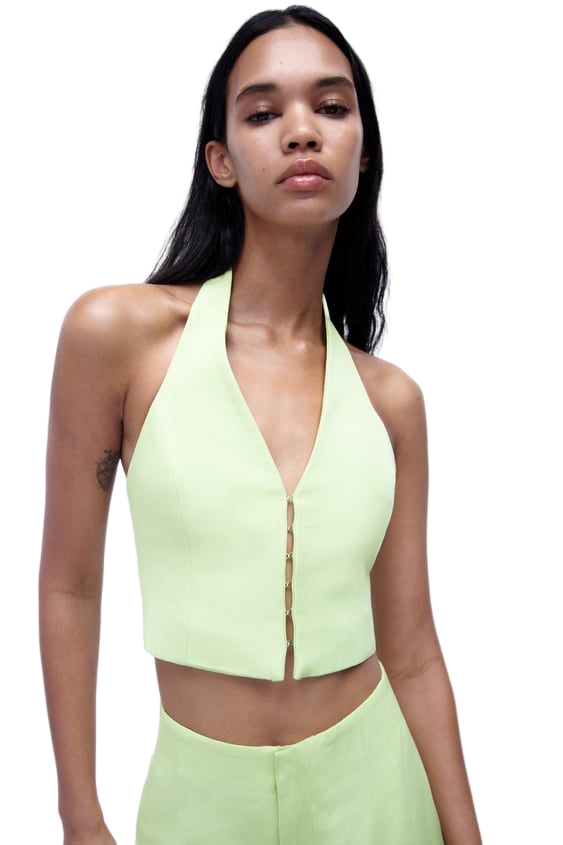
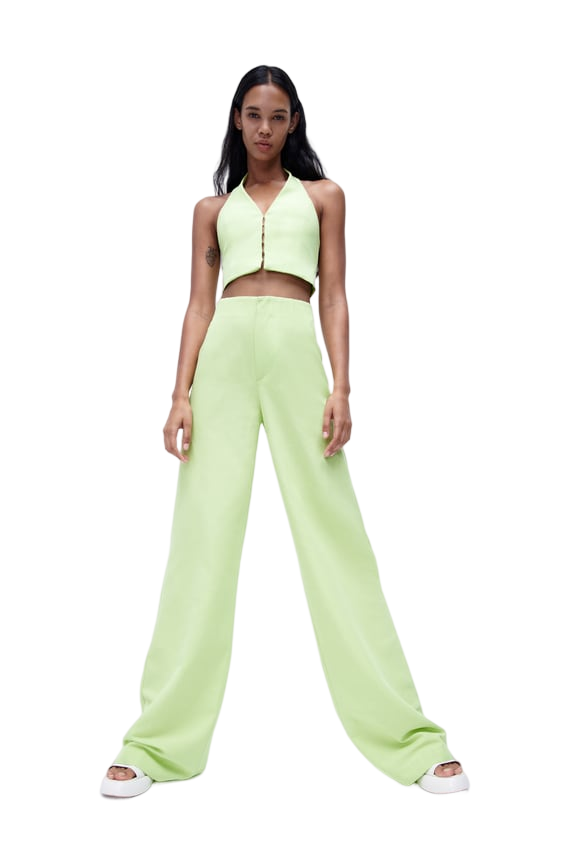
finished styling dashboard

diff --git a/pages/index.jsx b/pages/index.jsx
@@ -1,8 +1,18 @@
 import Head from 'next/head'
-import Image from 'next/image'
 import { IoIosArrowForward } from 'react-icons/io';
 import ImageWrapper from '../components/ImageWrapper'
 import ModelPic1 from '../public/assets/images/model1.png'
+import ModelPic2 from '../public/assets/images/model2.png'
+import ModelPic3 from '../public/assets/images/model3.png'
+import ModelPic4 from '../public/assets/images/model4.png'
+import bladeleaf from '../public/assets/svgs/bladeleaf.svg'
+import curvyarrowleft from '../public/assets/svgs/curvyarrowleft.svg'
+import curvyarrowup from '../public/assets/svgs/curvyarrowup.svg'
+import filledcircle from '../public/assets/svgs/filledcircle.svg'
+import hollowcircle from '../public/assets/svgs/hollowcircle.svg'
+import modelcirclemain from '../public/assets/svgs/modelcirclemain.svg'
+import modelcirclesecondary from '../public/assets/svgs/modelcirclesecondary.svg'
+import ribbon from '../public/assets/svgs/ribbon.svg'
 import Navbar from '../components/Navbar';
 import styles from '../styles/Home.module.css'
 
@@ -11,51 +21,64 @@ export default function Home() {
     <>
       <Navbar />
       <div className="maxw-wrapper">
-          <div className="productpage maxcontentw-warpper">
-            <div className="productpage__left">
-              <div className="productpage__left__info">
-                <h1 className="productpage__left__info__title">
-                  TIED GREEN V-NECK SHIRT
+          <div className={styles.productpage}>
+            <div className={styles.productpage__left}>
+              <div className={styles.productpage__left__info}>
+                <h1 className={styles.productpage__left__info__title}>
+                  TIED GREEN <br/> V-NECK SHIRT
                 </h1>
-                <h2 className="productpage__left__info__price">
+                <h2 className={styles.productpage__left__info__price}>
                   $110
                 </h2>
-                <p className="productpage__left__info__desc">
+                <p className={styles.productpage__left__info__desc}>
                   V-neck shirt with lapel collar. Long sleeves with cuffs. Front tie at hem. Front button closure.
                 </p>
-                <button className="productpage__left__info__addbtn">ADD</button>
+                <button className={styles.productpage__left__info__addbtn}>ADD</button>
               </div>
-              <div className="productpage__left__size">
-                <h2 className="productpage__left__size__title">
+              <div className={styles.productpage__left__size}>
+                <h2 className={styles.productpage__left__size__title}>
                   Select Size
                 </h2>
-                <div className="productpage__left__size__select">
-                  <button className="productpage__left__size__select__btn">S</button>
-                  <button className="productpage__left__size__select__btn">M</button>
-                  <button className="productpage__left__size__select__btn">L</button>
-                  <p className="productpage__left__size__select__guide" >SIZE GUIDE</p>
+                <div className={styles.productpage__left__size__select}>
+                  <button className={styles.productpage__left__size__select__btn}>S</button>
+                  <button className={styles.productpage__left__size__select__btn}>M</button>
+                  <button className={styles.productpage__left__size__select__btn}>L</button>
+                  <button className={styles.productpage__left__size__select__guide} >SIZE GUIDE</button>
                 </div>
               </div>
-              <div className="productpage__left__carousel" >
-                <div className="productpage__left__carousel__imgcontainer" >
-                  <div className="productpage__left__carousel__imgcontainer__img" />
+              <div className={styles.productpage__left__carousel} >
+                <div className={styles.productpage__left__carousel__imgcontainer} >
+                  <div className={[styles.productpage__left__carousel__imgcontainer__img, styles.productpage__left__carousel__imgcontainer__img1].join(' ')} />
                 </div>
-                <div className="productpage__left__carousel__imgcontainer" >
-                  <div className="productpage__left__carousel__imgcontainer__img" />
+                <div className={styles.productpage__left__carousel__imgcontainer} >
+                  <div className={[styles.productpage__left__carousel__imgcontainer__img, styles.productpage__left__carousel__imgcontainer__img2].join(' ')} />
                 </div>
-                <div className="productpage__left__carousel__imgcontainer" >
-                  <div className="productpage__left__carousel__imgcontainer__img" />
+                <div className={styles.productpage__left__carousel__imgcontainer} >
+                  <div className={[styles.productpage__left__carousel__imgcontainer__img, styles.productpage__left__carousel__imgcontainer__img3].join(' ')} />
                 </div>
-                <div className="productpage__left__carousel__imgcontainer" >
-                  <div className="productpage__left__carousel__imgcontainer__img" />
+                <div className={styles.productpage__left__carousel__imgcontainer} >
+                  <div className={[styles.productpage__left__carousel__imgcontainer__img, styles.productpage__left__carousel__imgcontainer__img4].join(' ')} />
                 </div>
-                <button className="productpage__left__carousel__morebtn">
-                  <IoIosArrowForward className="productpage__left__carousel__morebtn__icon"/>
+                <button className={styles.productpage__left__carousel__morebtn}>
+                  <IoIosArrowForward className={styles.productpage__left__carousel__morebtn__icon}/>
                 </button>
               </div>
             </div>
-            <div className="productpage__right">
-              <ImageWrapper src={ModelPic1} />
+            <div className={styles.productpage__right}>
+              <div className={styles.productpage__right__imgcontainer}>
+                <ImageWrapper absolute={true} className={styles.productpage__right__imgcontainer__modelpic} src={ModelPic2} />
+                <div absolute={true} className={styles.productpage__right__imgcontainer__modelcirclemain} src={modelcirclemain}/>
+                <div absolute={true} className={styles.productpage__right__imgcontainer__modelcirclesecondary} src={modelcirclesecondary}/>
+                <div absolute={true} className={styles.productpage__right__imgcontainer__modelcirclesecondary2} src={modelcirclesecondary}/>
+                <div absolute={true} className={styles.productpage__right__imgcontainer__modelcirclesecondary3} src={modelcirclesecondary}/>
+                <div absolute={true} className={styles.productpage__right__imgcontainer__modelcirclesecondary4} src={modelcirclesecondary}/>
+                <ImageWrapper absolute={true} className={styles.productpage__right__imgcontainer__filledcircle} src={filledcircle}/>
+                <ImageWrapper absolute={true} className={styles.productpage__right__imgcontainer__hollowcircle} src={hollowcircle}/>
+                <ImageWrapper absolute={true} className={styles.productpage__right__imgcontainer__ribbon} src={ribbon}/>
+                <ImageWrapper absolute={true} className={styles.productpage__right__imgcontainer__curvyarrowup} src={curvyarrowup}/>
+                <ImageWrapper absolute={true} className={styles.productpage__right__imgcontainer__curvyarrowleft} src={curvyarrowleft}/>
+                <ImageWrapper absolute={true} className={styles.productpage__right__imgcontainer__bladeleaf} src={bladeleaf}/>
+              </div>
             </div>
           </div>
       </div>

diff --git a/styles/Home.module.css b/styles/Home.module.css
@@ -1,0 +1,184 @@
+.productpage{
+    @apply flex relative;
+    min-height: calc(100vh - 4.5rem)
+}
+
+.productpage .productpage__left{
+    @apply flex flex-col justify-end py-8 gap-12;
+    width: 57%;
+}
+
+.productpage .productpage__left .productpage__left__info{
+    @apply flex flex-col gap-5 relative mt-12;
+}
+
+.productpage .productpage__left .productpage__left__info .productpage__left__info__title{
+    @apply text-7xl font-bold;
+    line-height: 6rem;
+}
+
+.productpage .productpage__left .productpage__left__info .productpage__left__info__price{
+    @apply text-5xl;
+}
+
+.productpage .productpage__left .productpage__left__info .productpage__left__info__desc{
+    @apply max-w-lg tracking-wide text-xl text-gray-600;
+}
+
+.productpage .productpage__left .productpage__left__info .productpage__left__info__addbtn{
+    @apply max-w-2xl tracking-wide text-xl absolute bottom-32 right-16 w-20 h-20 bg-red-500 rounded-full text-white font-black text-xl tracking-wide;
+    font-family: monospace;
+}
+
+.productpage .productpage__left .productpage__left__size{
+    @apply flex flex-col gap-4;
+}
+
+.productpage .productpage__left .productpage__left__size .productpage__left__size__title{
+    @apply text-xl font-fantasy tracking-wider;
+}
+
+.productpage .productpage__left .productpage__left__size .productpage__left__size__select{
+    @apply flex gap-4 items-center;
+}
+
+.productpage .productpage__left .productpage__left__size .productpage__left__size__select__btn{
+    @apply w-10 h-10 rounded-full border-black border-solid border flex justify-center items-center text-xl;
+}
+
+.productpage .productpage__left .productpage__left__size .productpage__left__size__select__guide{
+    @apply font-bold text-gray-400;
+}
+
+.productpage .productpage__left .productpage__left__carousel {
+    @apply flex gap-4;
+}
+
+.productpage .productpage__left .productpage__left__carousel .productpage__left__carousel__imgcontainer{
+    @apply h-64 w-80;
+}
+
+.productpage .productpage__left .productpage__left__carousel .productpage__left__carousel__imgcontainer__img{
+    @apply w-full h-full bg-cover bg-no-repeat;
+}
+
+.productpage .productpage__left .productpage__left__carousel .productpage__left__carousel__imgcontainer__img1{
+    @apply bg-slate-500;
+    background-image: url('../public/assets/images/model1.jpg');
+}
+.productpage .productpage__left .productpage__left__carousel .productpage__left__carousel__imgcontainer__img2{
+    @apply bg-slate-500;
+    background-image: url('../public/assets/images/model2.jpg');
+}
+.productpage .productpage__left .productpage__left__carousel .productpage__left__carousel__imgcontainer__img3{
+    @apply bg-slate-500;
+    background-image: url('../public/assets/images/model3.jpg');
+}
+.productpage .productpage__left .productpage__left__carousel .productpage__left__carousel__imgcontainer__img4{
+    @apply bg-slate-500;
+    background-image: url('../public/assets/images/model4.jpg');
+}
+
+.productpage .productpage__left .productpage__left__carousel .productpage__left__carousel__morebtn__icon{
+    @apply text-4xl;
+}
+
+.productpage .productpage__right{
+    @apply flex flex-col justify-end gap-12 absolute top-0 bottom-0 right-0 overflow-x-visible overflow-y-clip;
+    width: 43%;
+}
+
+.productpage .productpage__right__imgcontainer{
+    @apply absolute inset-0;
+}
+
+.productpage .productpage__right__imgcontainer__modelpic{
+    @apply absolute bottom-0 left-1/2 -translate-x-1/2;
+    z-index: 60;
+    bottom: -75px;
+    width: 35rem;
+    aspect-ratio: 0.666;
+}
+
+.productpage .productpage__right__imgcontainer__modelcirclemain{
+    @apply absolute z-50 left-4 bottom-0 aspect-square rounded-full;
+    background: #dce1ca;
+    width: 43rem;
+}
+
+.productpage .productpage__right__imgcontainer__modelcirclesecondary{
+    @apply absolute z-40 left-4 bottom-0 aspect-square rounded-full;
+    background: #d5dcba69;
+    z-index: 40;
+    width: 35rem;
+}
+
+.productpage .productpage__right__imgcontainer__modelcirclesecondary2{
+    @apply absolute z-30 -left-8 bottom-20 aspect-square rounded-full;
+    background: #d5dcba69;
+    width: 35rem;
+}
+
+.productpage .productpage__right__imgcontainer__modelcirclesecondary3{
+    @apply absolute z-20 left-4 bottom-32 aspect-square rounded-full;
+    background: #d5dcba69;
+    width: 35rem;
+}
+
+.productpage .productpage__right__imgcontainer__modelcirclesecondary4{
+    @apply absolute z-10 left-32 bottom-32 aspect-square rounded-full;
+    background: #d5dcba69;
+    width: 35rem;
+}
+
+.productpage .productpage__right__imgcontainer__bladeleaf{
+    @apply absolute -left-8 aspect-square rotate-45 w-12;
+    z-index: 70;
+    bottom: 23rem;
+    animation: spin 4s infinite linear;
+}
+
+.productpage .productpage__right__imgcontainer__curvyarrowleft{
+    @apply absolute -right-20 bottom-4 aspect-square rotate-12 w-36;
+    z-index: 70;
+}
+
+.productpage .productpage__right__imgcontainer__curvyarrowup{
+    @apply absolute -left-16 aspect-square rotate-12 w-36;
+    z-index: 70;
+    bottom: 42rem;
+}
+
+.productpage .productpage__right__imgcontainer__filledcircle{
+    @apply absolute left-28 aspect-square rotate-12 w-6;
+    z-index: 70;
+    bottom: 34rem;
+}
+
+.productpage .productpage__right__imgcontainer__hollowcircle{
+    @apply absolute aspect-square rotate-12 w-6;
+    z-index: 70;
+    left: 33rem;
+    bottom: 43rem;
+}
+
+.productpage .productpage__right__imgcontainer__ribbon{
+    @apply absolute aspect-square rotate-90 w-16;
+    right: -3rem;
+    z-index: 70;
+    bottom: 28rem;
+}
+
+
+@keyframes spin {
+    from {
+        transform: rotate(0deg);
+      }
+      to {
+        transform: rotate(360deg);
+      }
+}
+
+
+
+

diff --git a/styles/globals.css b/styles/globals.css
@@ -10,7 +10,8 @@
 }
 
 .maxw-wrapper{
-    @apply max-w-7xl m-auto;
+    @apply m-auto;
+    max-width: 74rem;
 }
 
 .maxcontentw-wrapper{
@@ -18,5 +19,5 @@
 }
 
 body{
-    @apply bg-lime-50;
+    @apply bg-lime-50 overflow-x-hidden;
 }

diff --git a/components/Navbar/index.module.css b/components/Navbar/index.module.css
@@ -10,6 +10,7 @@
 
 .navbar{
     @apply flex justify-between items-stretch;
+    height: 4.5rem;
 }
 
 .navbar .navbar__item{
